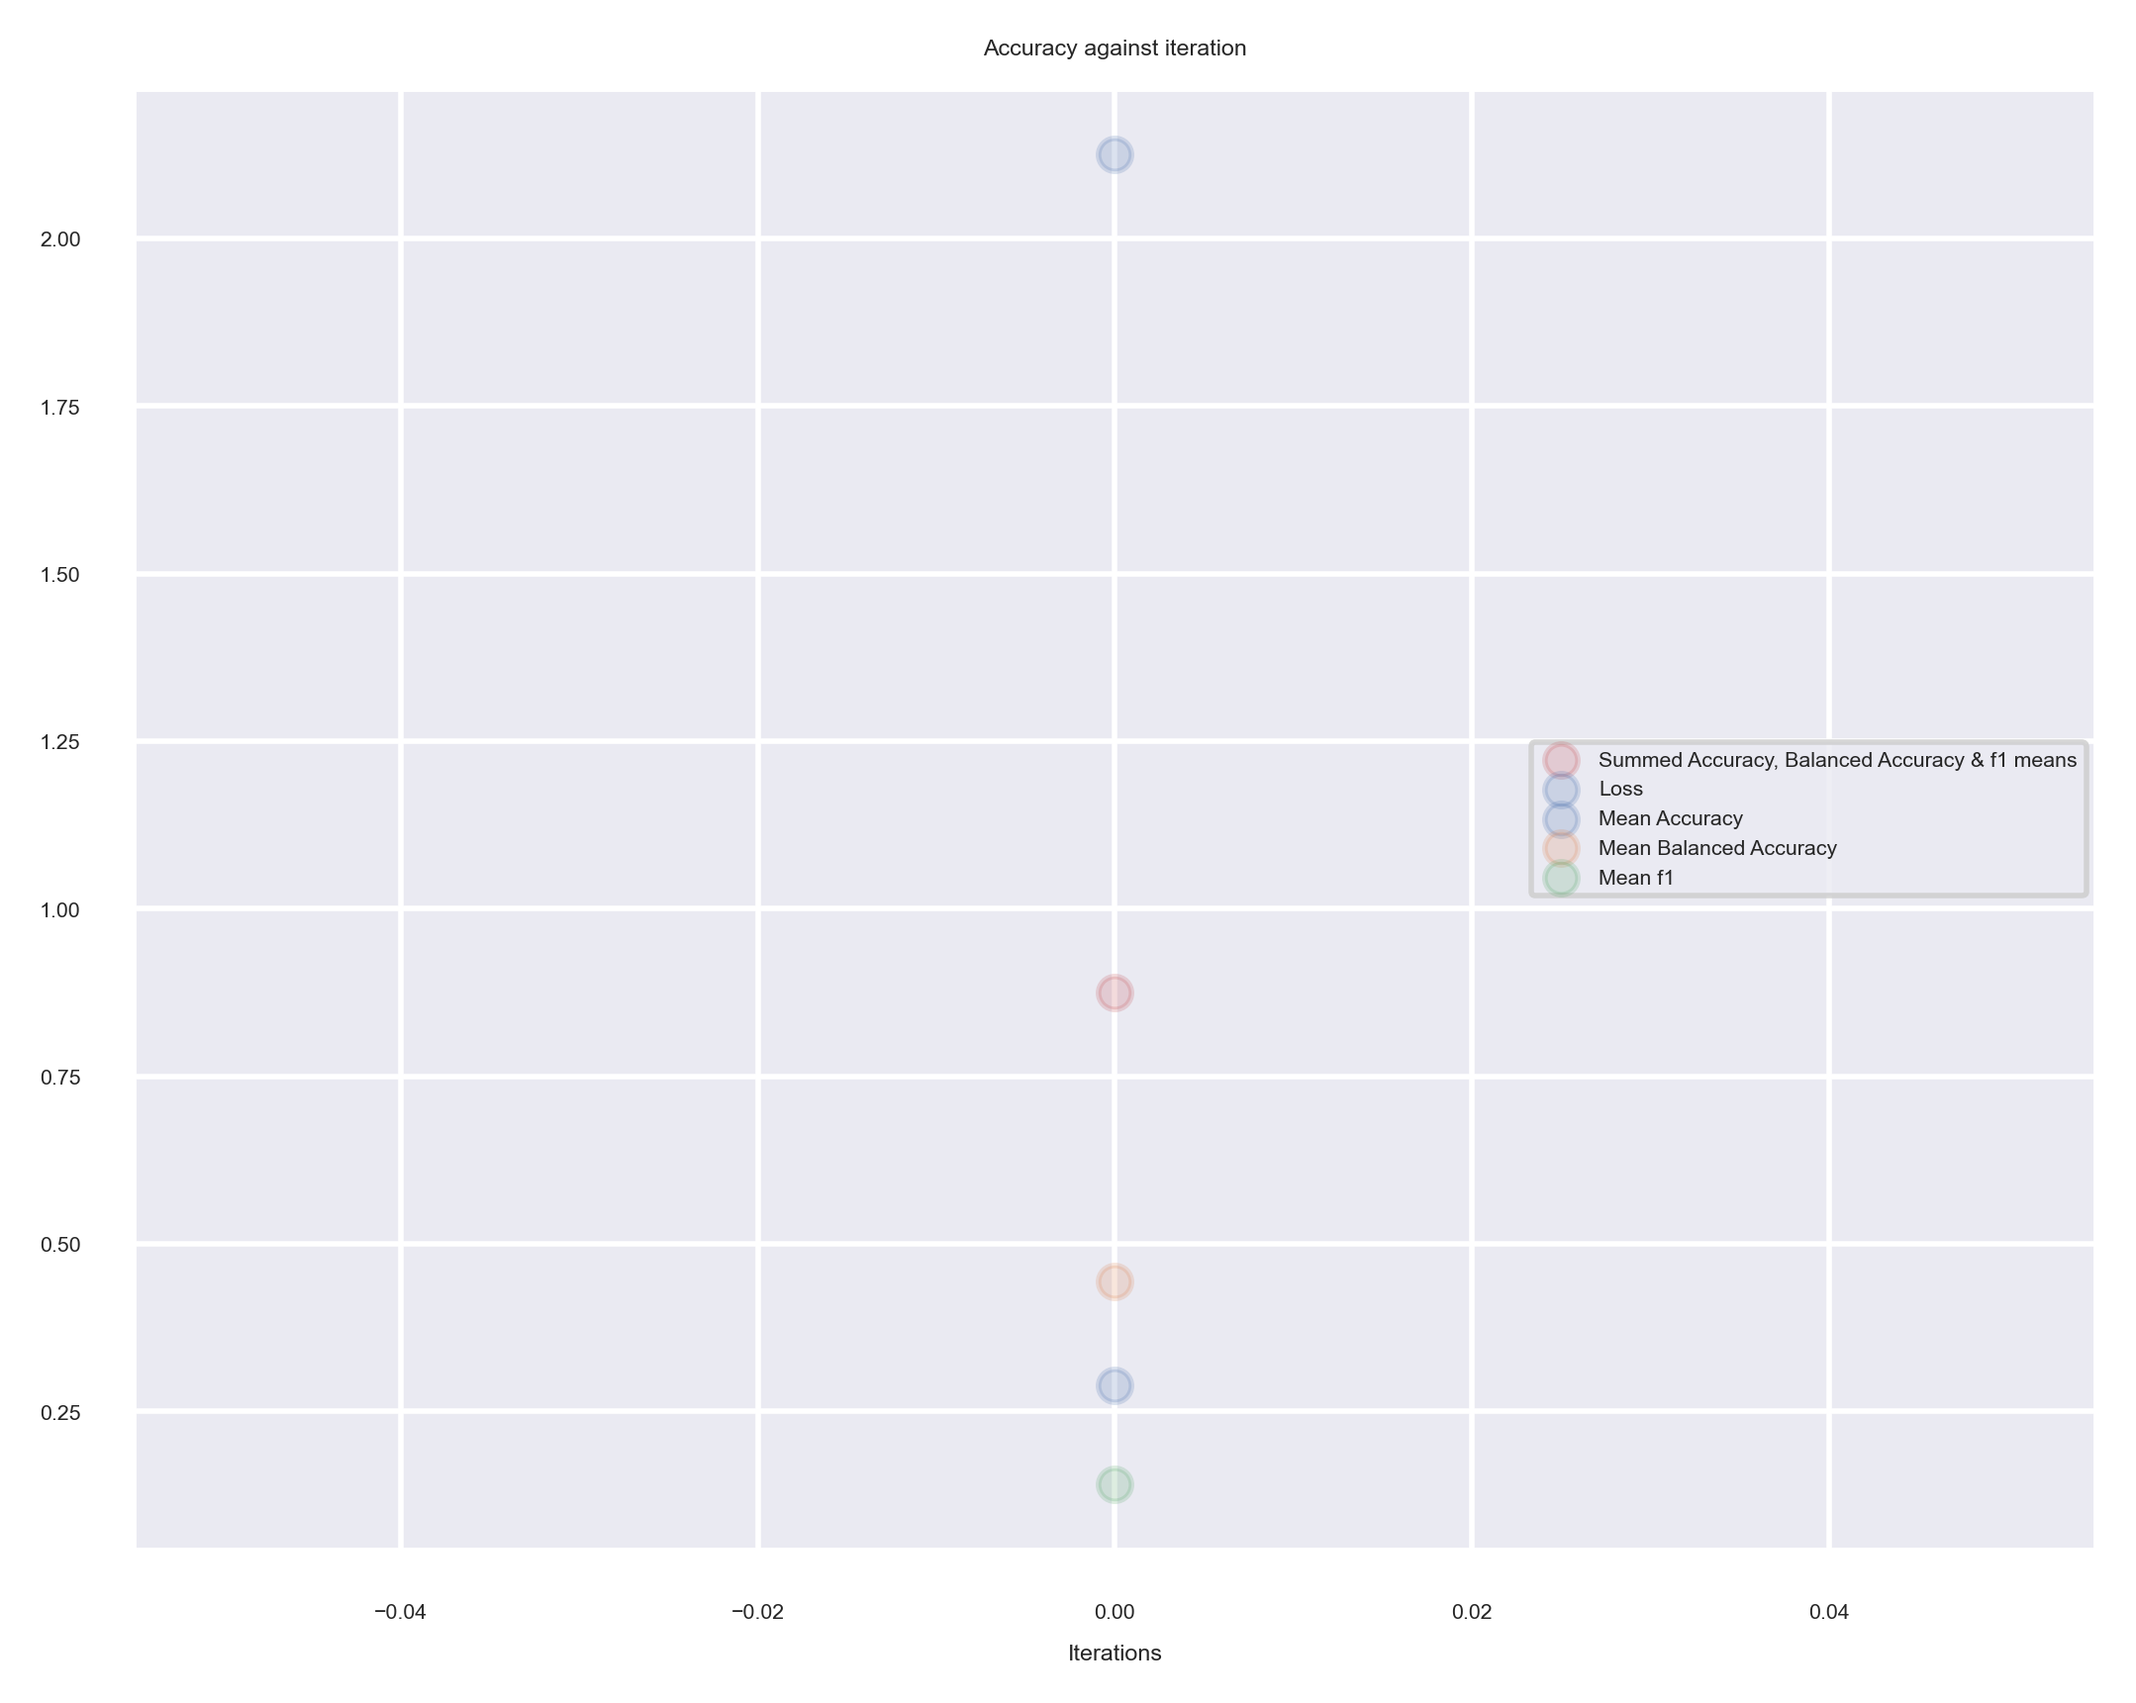
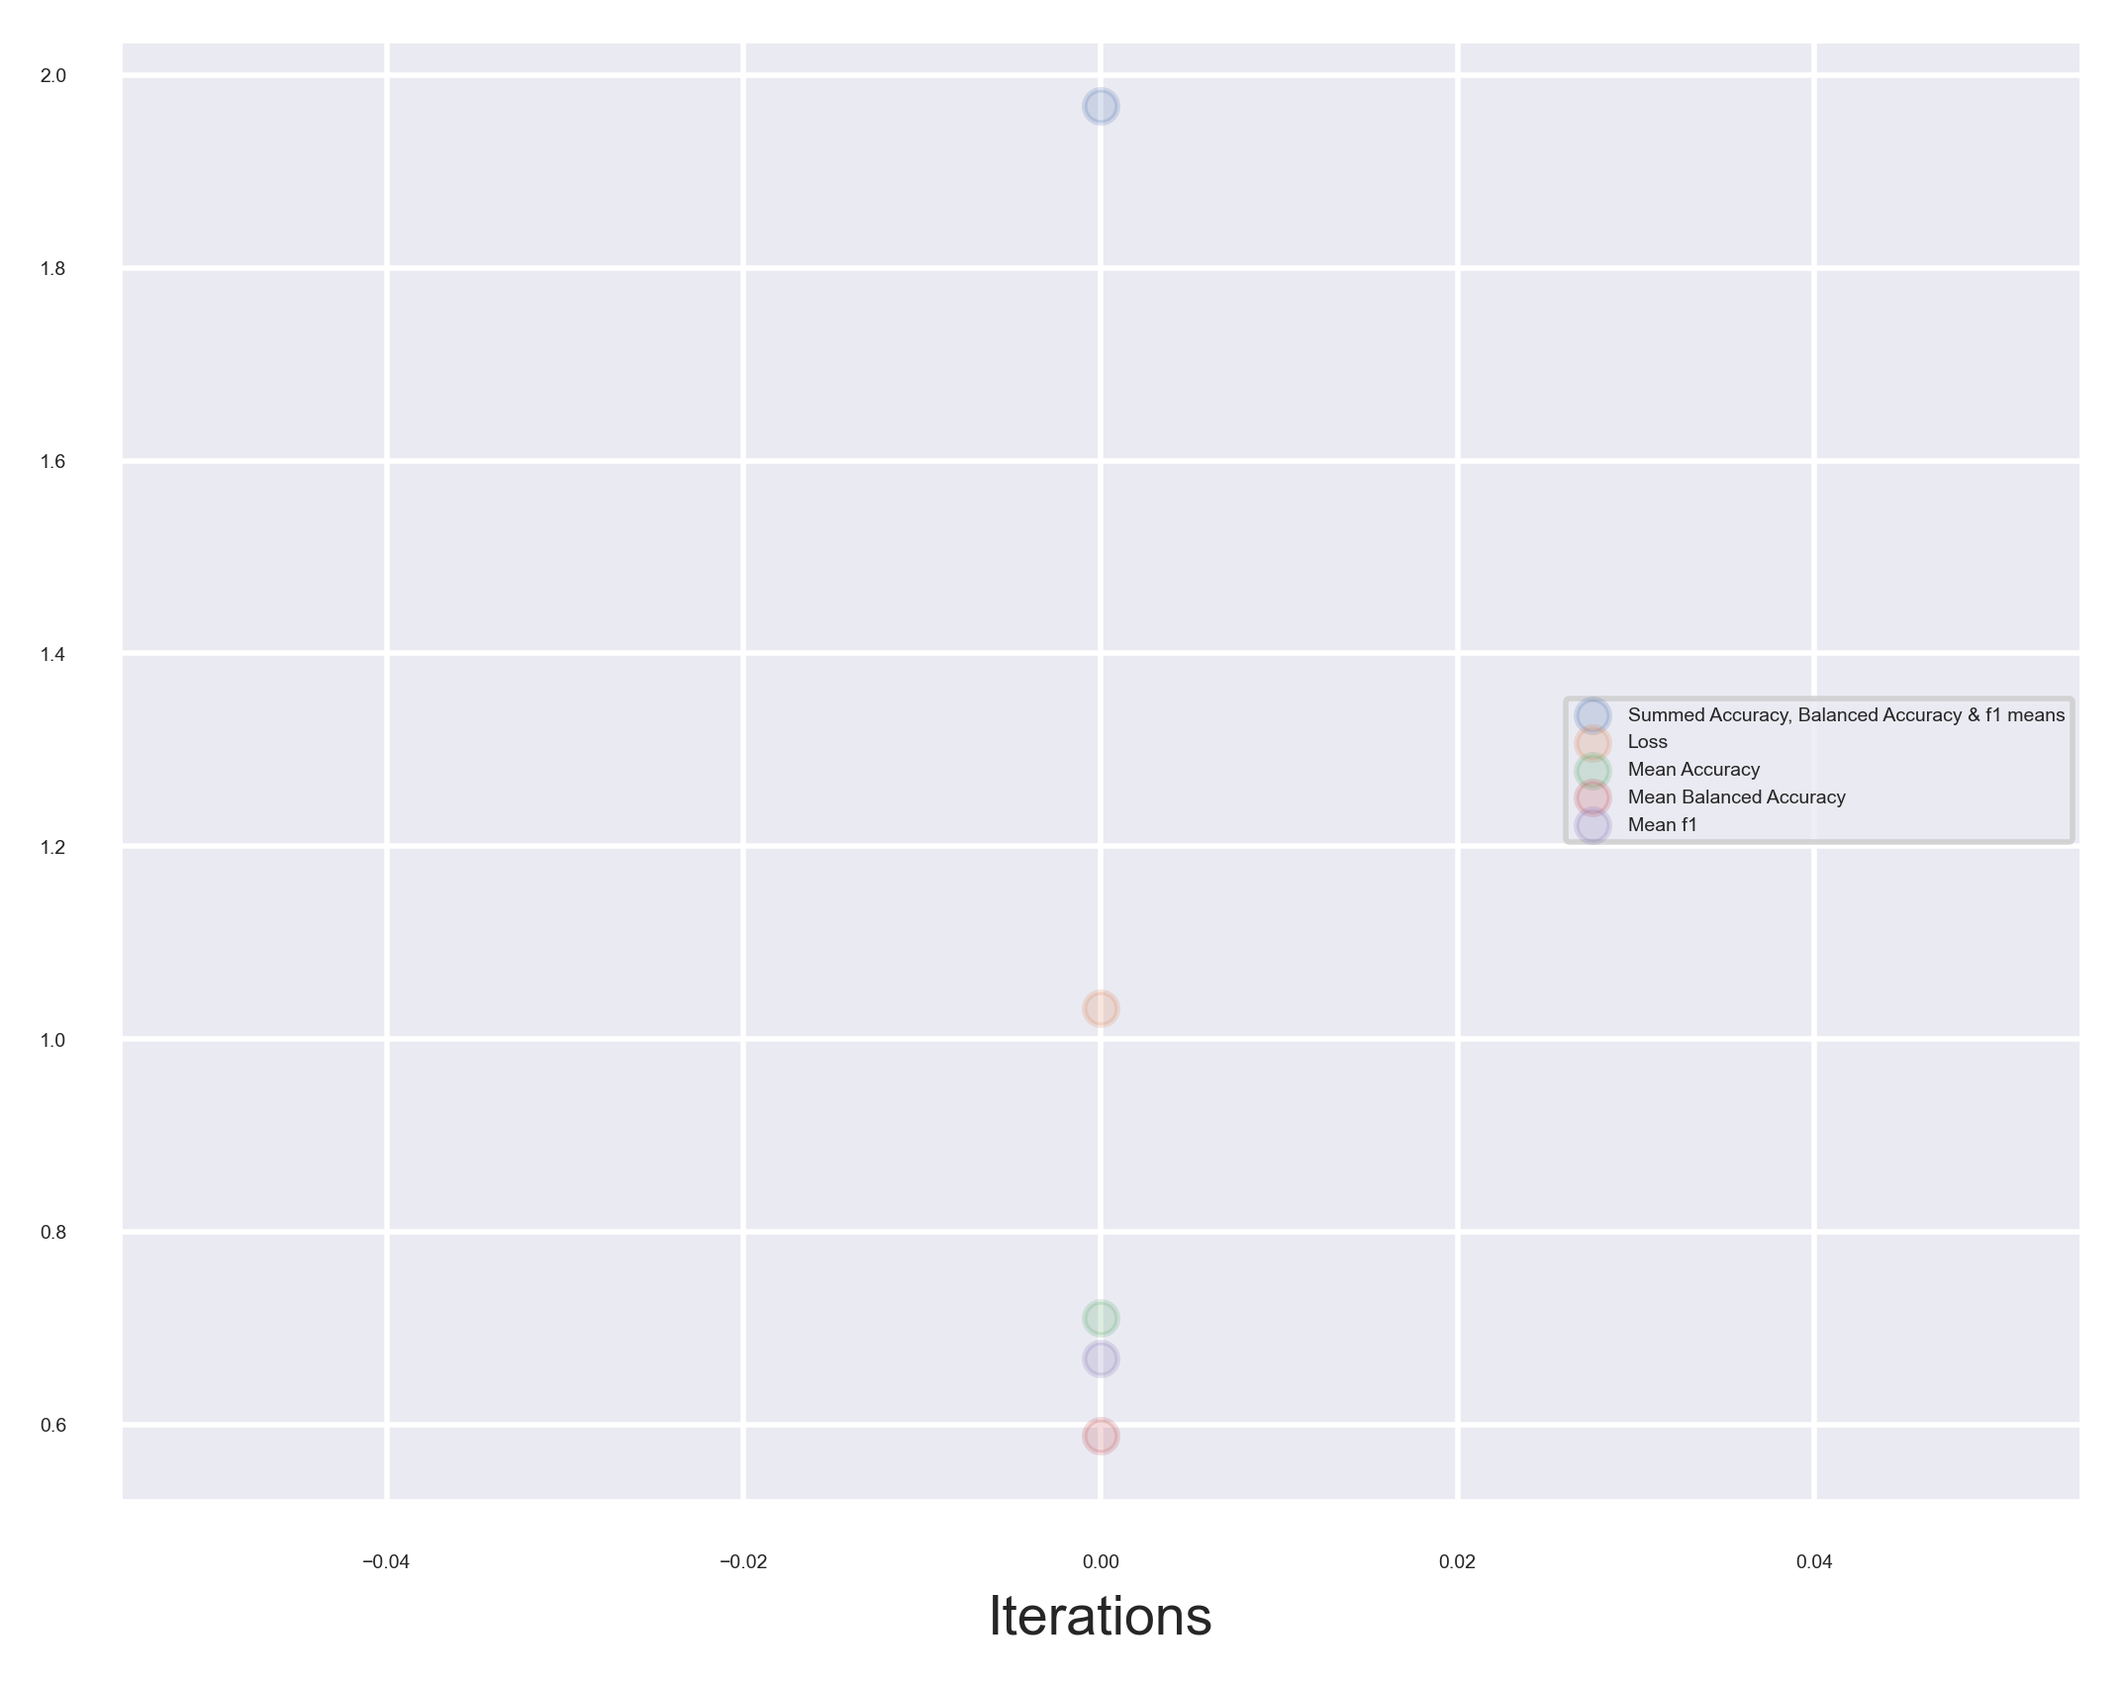
updated images - changed log search space

diff --git a/classifier.py b/classifier.py
@@ -749,8 +749,9 @@ def hypertuning(modelA, modelB):
         # therefore checks 6 * 5 = 30 combinations of results
         # uses the cross validation steps used earlier with 5 folds
         param_grid = [
-            # {"C": range(950,1125,25), "tol": [0.00015, 0.0001,0.00014, 0.00016, 0.0002]},
-            {"C": range(950, 1050, 10), "tol": [0.00015, 0.00014, 0.00016]},
+            # {"C": range(950,1125,25), "penalty": },
+            {"C": np.logspace(-3,3.5,10), "penalty":['l1','l2']},
+            # {"C": [10], "tol": [0.00016]},
         ]
 
         LogGridSearch = model_selection.GridSearchCV(logRegr, param_grid, cv=5, return_train_score=True, n_jobs=-1,
@@ -798,7 +799,7 @@ def hypertuning(modelA, modelB):
             return {"loss":loss, 'params': params, 'status': hyperopt.STATUS_OK,'acc':results["test_accuracy"].mean(),'f1':results["test_f1_weighted"].mean(),'balAcc': results["test_balanced_accuracy"].mean()}
 
         # Iterations of hypertuning
-        max_evals = 2
+        max_evals = 1000
 
         # search space for the hyperparameter optimisation search problem
         param_space = {"n_estimators":hyperopt.hp.choice("n_estimators", np.arange(1, 1000, dtype=int)),
@@ -882,7 +883,7 @@ def hypertuning(modelA, modelB):
         f1 = plt.scatter(range(len(trials)), [i["result"]["f1"] for i in trials.trials], alpha=0.2)
         plt.legend((MM,Loss,Acc,balAcc,f1),('Summed Accuracy, Balanced Accuracy & f1 means','Loss','Mean Accuracy', 'Mean Balanced Accuracy','Mean f1'),loc='right')
         plt.xlabel("Iterations",fontsize=10)
-        plt.title("Metrics against iteration",fontsize=17)
+        # plt.title("Metrics against iteration",fontsize=17)
         saveFigure("Accuracy_against_iteration2")
 
         # plot estimators against iteration
@@ -991,5 +992,5 @@ def finalMetrics(truePredTuple):
     print(pandas.DataFrame(metrics.confusion_matrix(truePredTuple[0], truePredTuple[1]), index=category2String,
                            columns=category2String))
 
-modelSelection()
+# modelSelection()
 hypertuning(True, True)
